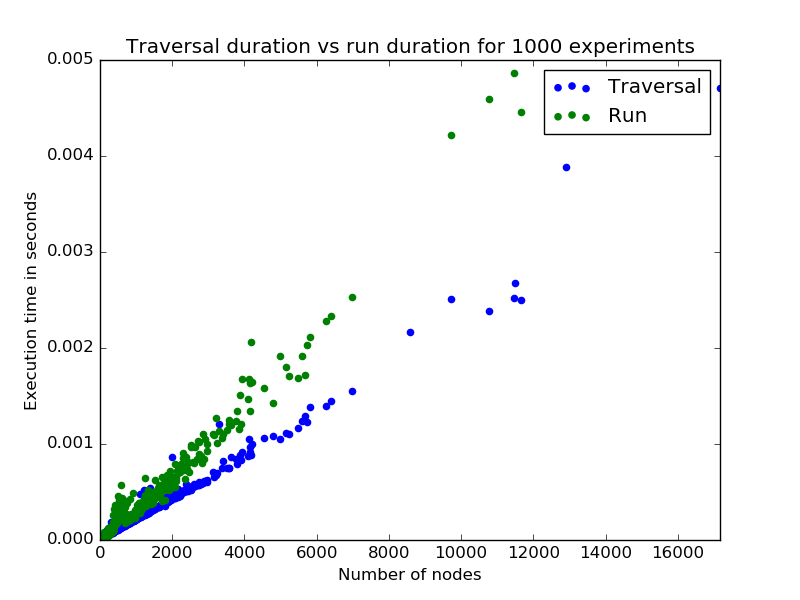
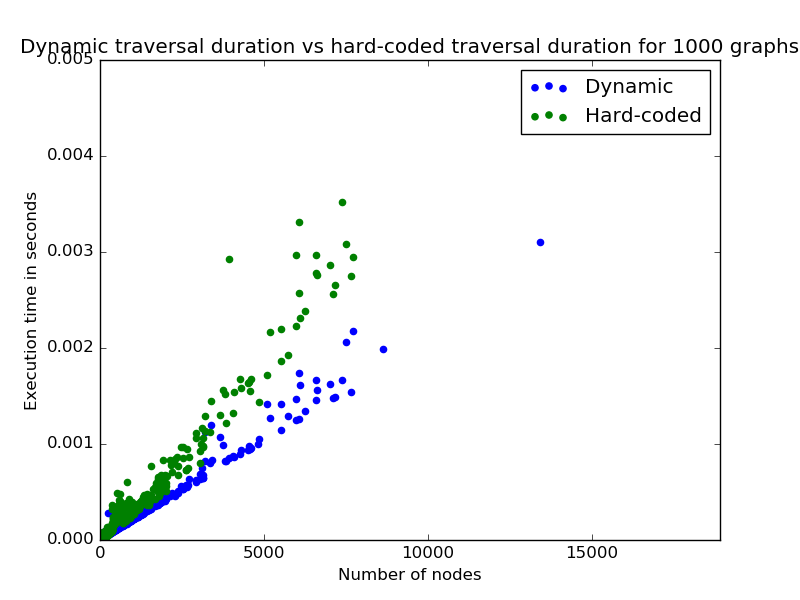
change plot title and labels

diff --git a/benchmark.py b/benchmark.py
@@ -141,6 +141,9 @@ def make_experiment():
 
     return nb_nodes, duration_traversal, duration_run
 
+
+# Make several experiments
+
 nb_exp = 1000
 nb_nodes_list = []
 duration_traversal_list = []
@@ -156,13 +159,16 @@ for i in range(nb_exp):
     sys.stdout.flush()
 sys.stdout.write('\n')
 
+
+# Plot the results
+
 fig = plt.figure()
-plt.title('Traversal duration vs run duration for %d experiments'%nb_exp)
+plt.title('Dynamic traversal duration vs hard-coded traversal duration for %d graphs'%nb_exp)
 plt.ylabel('Execution time in seconds')
 plt.xlabel('Number of nodes')
 scat_tr = plt.scatter(nb_nodes_list, duration_traversal_list, color='b')
 scat_run = plt.scatter(nb_nodes_list, duration_run_list, color='g')
-plt.legend((scat_tr, scat_run), ('Traversal', 'Run'))
+plt.legend((scat_tr, scat_run), ('Dynamic', 'Hard-coded'))
 #max_duration = max(max(duration_traversal_list), max(duration_run_list))
 max_nb_nodes = max(nb_nodes_list)
 axes = plt.gca()
